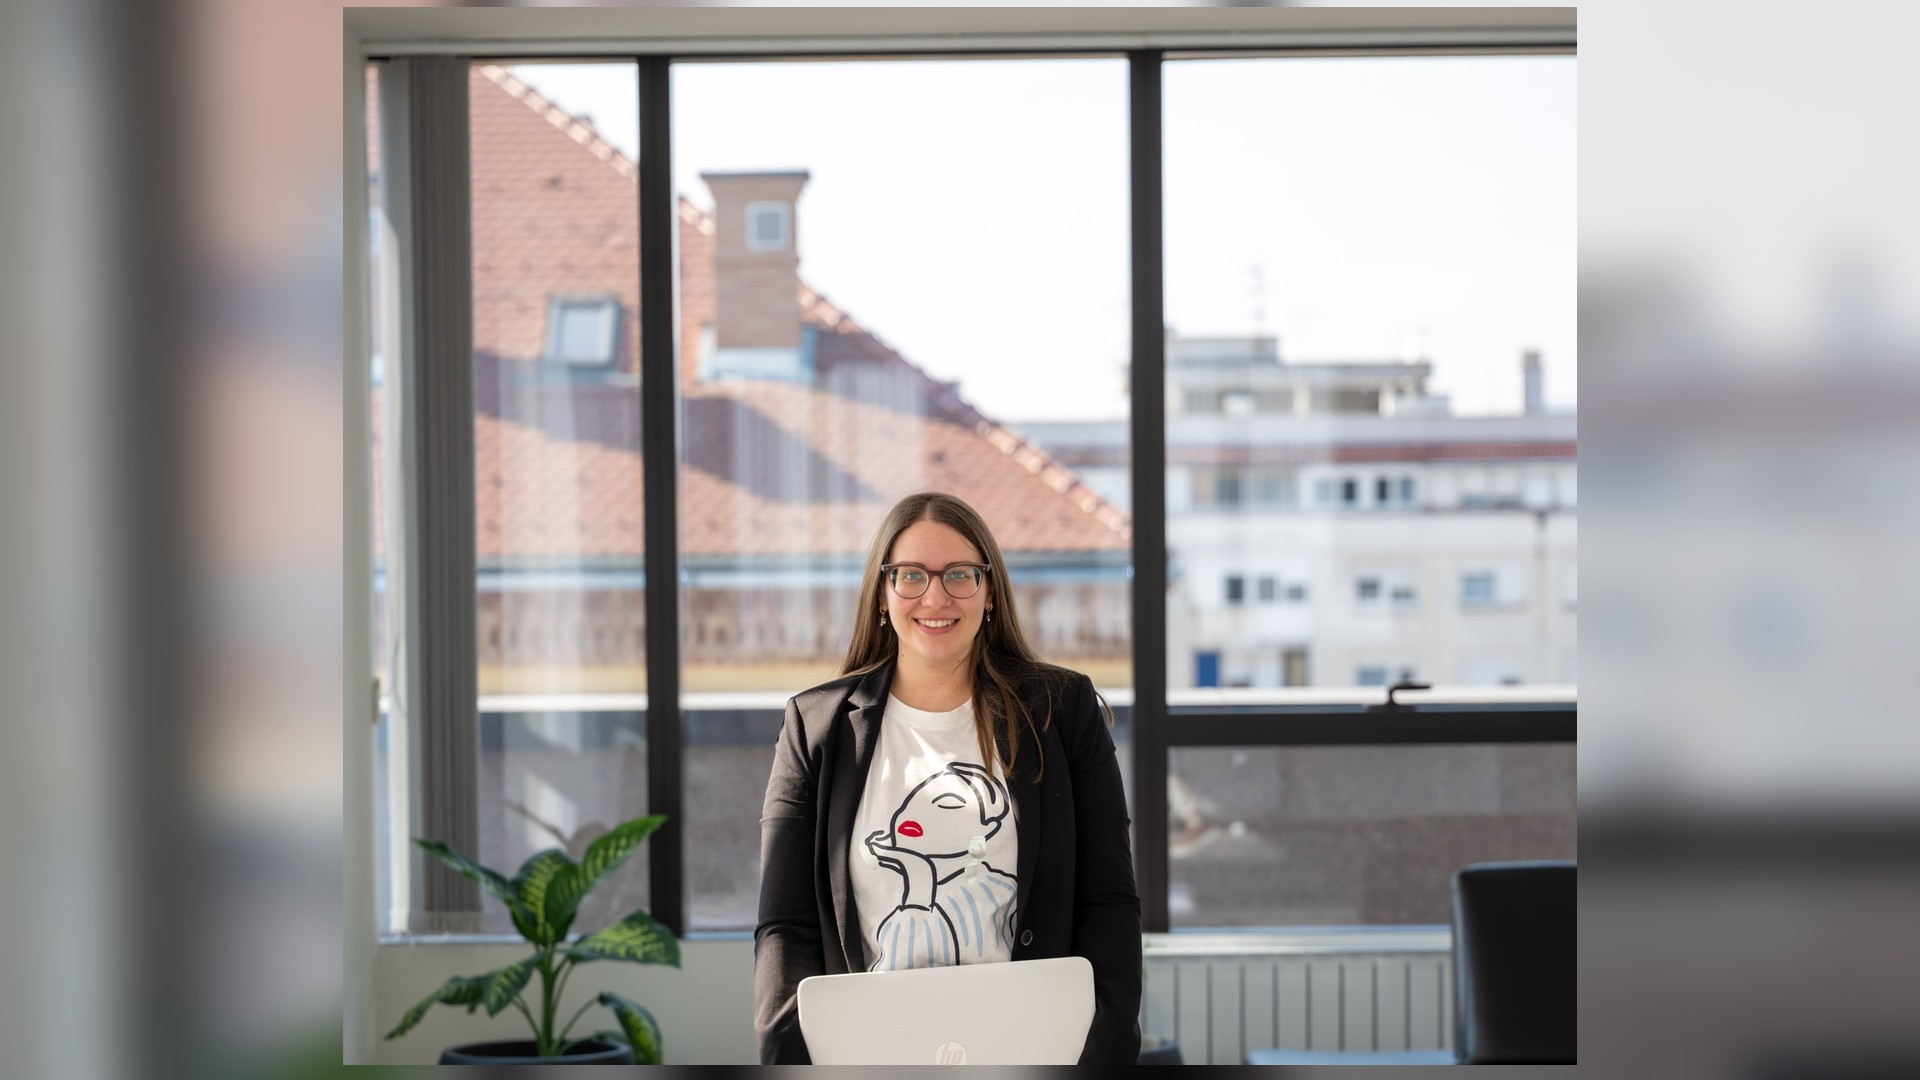
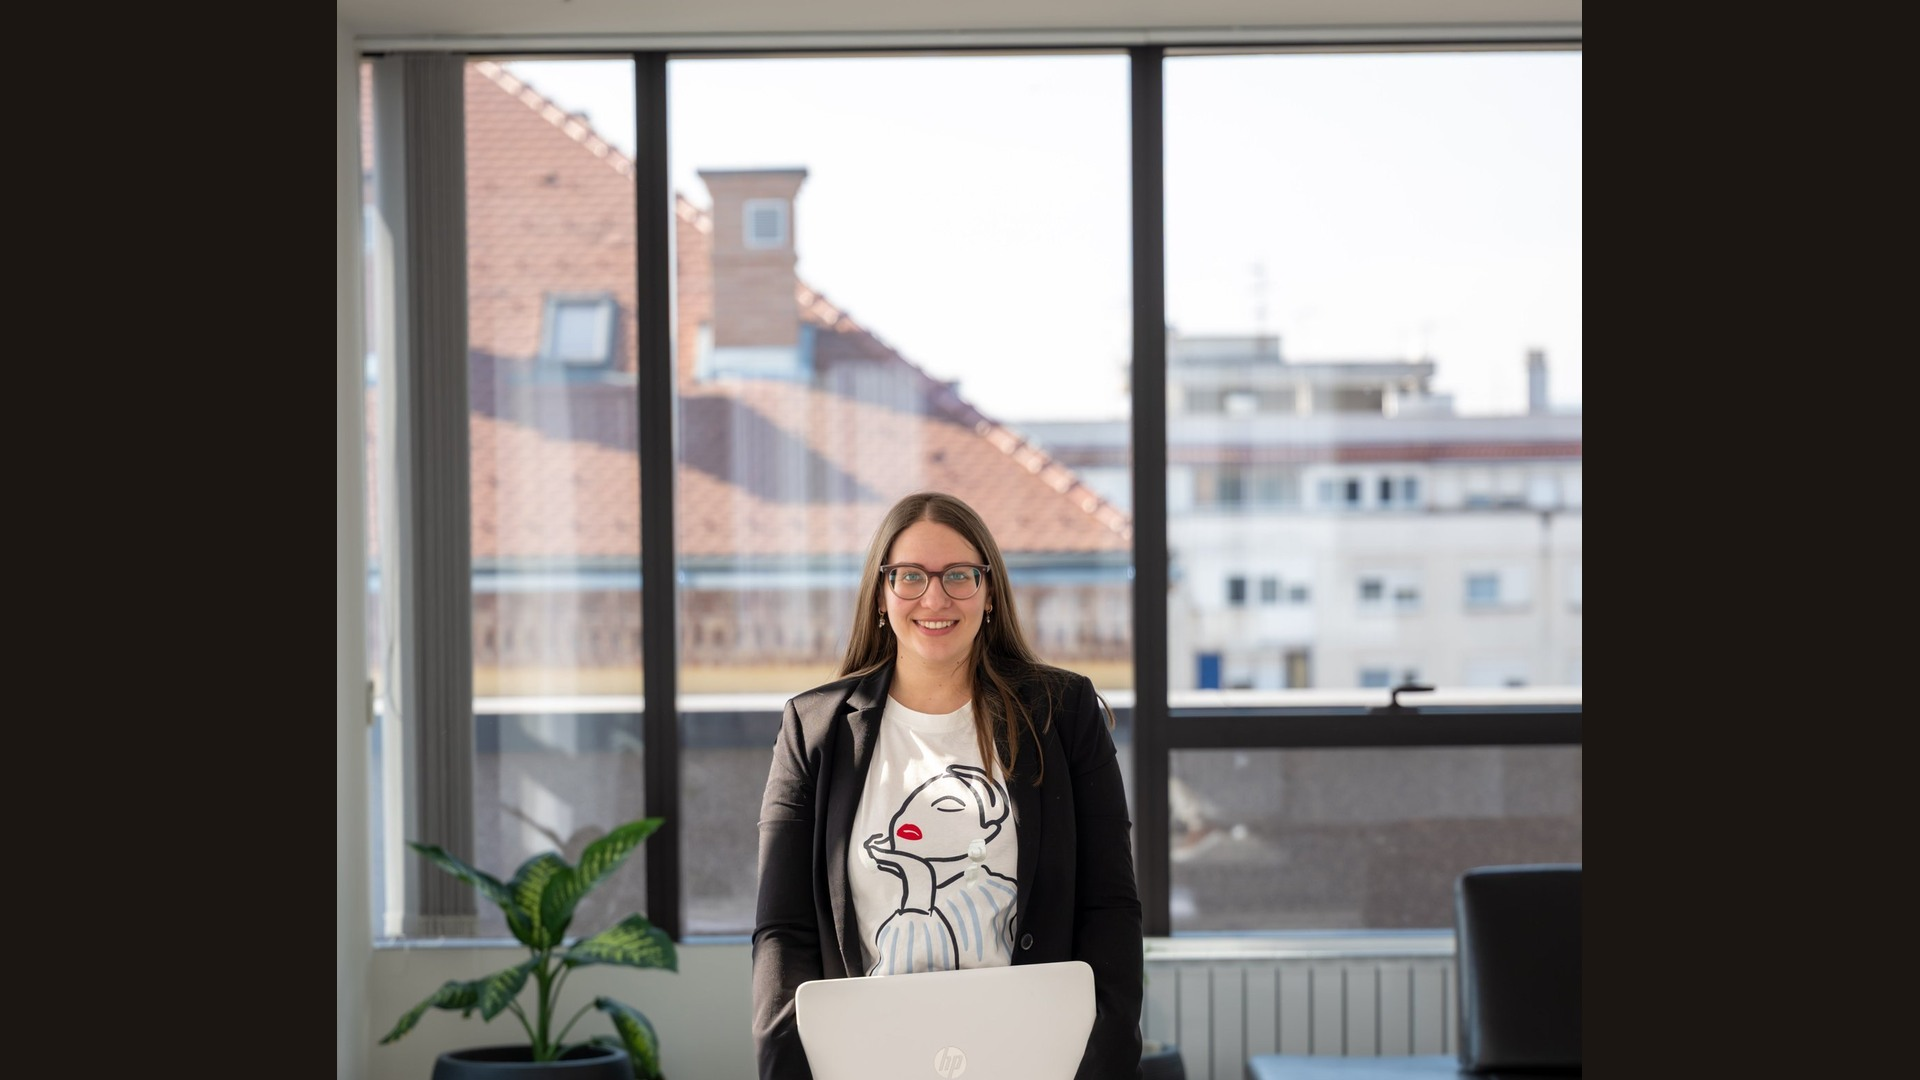
Refine desktop hero frame: sharp medium shot, solid side fill.
Replace blurred edge padding with hero ink so the head-to-hips crop
stays crisp under the side gradients; bump cache bust.

diff --git a/index.html b/index.html
@@ -27,7 +27,7 @@
       href="https://fonts.googleapis.com/css2?family=Inter:wght@400;500;600&display=swap"
       rel="stylesheet"
     />
-    <link rel="stylesheet" href="css/main.css?v=hero-desktop-hips-1" />
+    <link rel="stylesheet" href="css/main.css?v=hero-desktop-hips-2" />
     <script>
       document.documentElement.classList.add("js");
     </script>
@@ -83,12 +83,13 @@
             <!-- Desktop: pre-framed medium shot (head under nav → hips), matches composition reference -->
             <source
               media="(min-width: 960px)"
-              srcset="assets/images/monika-hero-office-desktop.webp?v=hips-1"
+              srcset="assets/images/monika-hero-office-desktop.webp?v=hips-2"
               type="image/webp"
             />
             <source
               media="(min-width: 960px)"
-              srcset="assets/images/monika-hero-office-desktop.jpg?v=hips-1"
+              srcset="assets/images/monika-hero-office-desktop.jpg?v=hips-2"
+              type="image/jpeg"
             />
             <source srcset="assets/images/monika-hero-office-v2.webp?v=deskhead-1" type="image/webp" />
             <img
